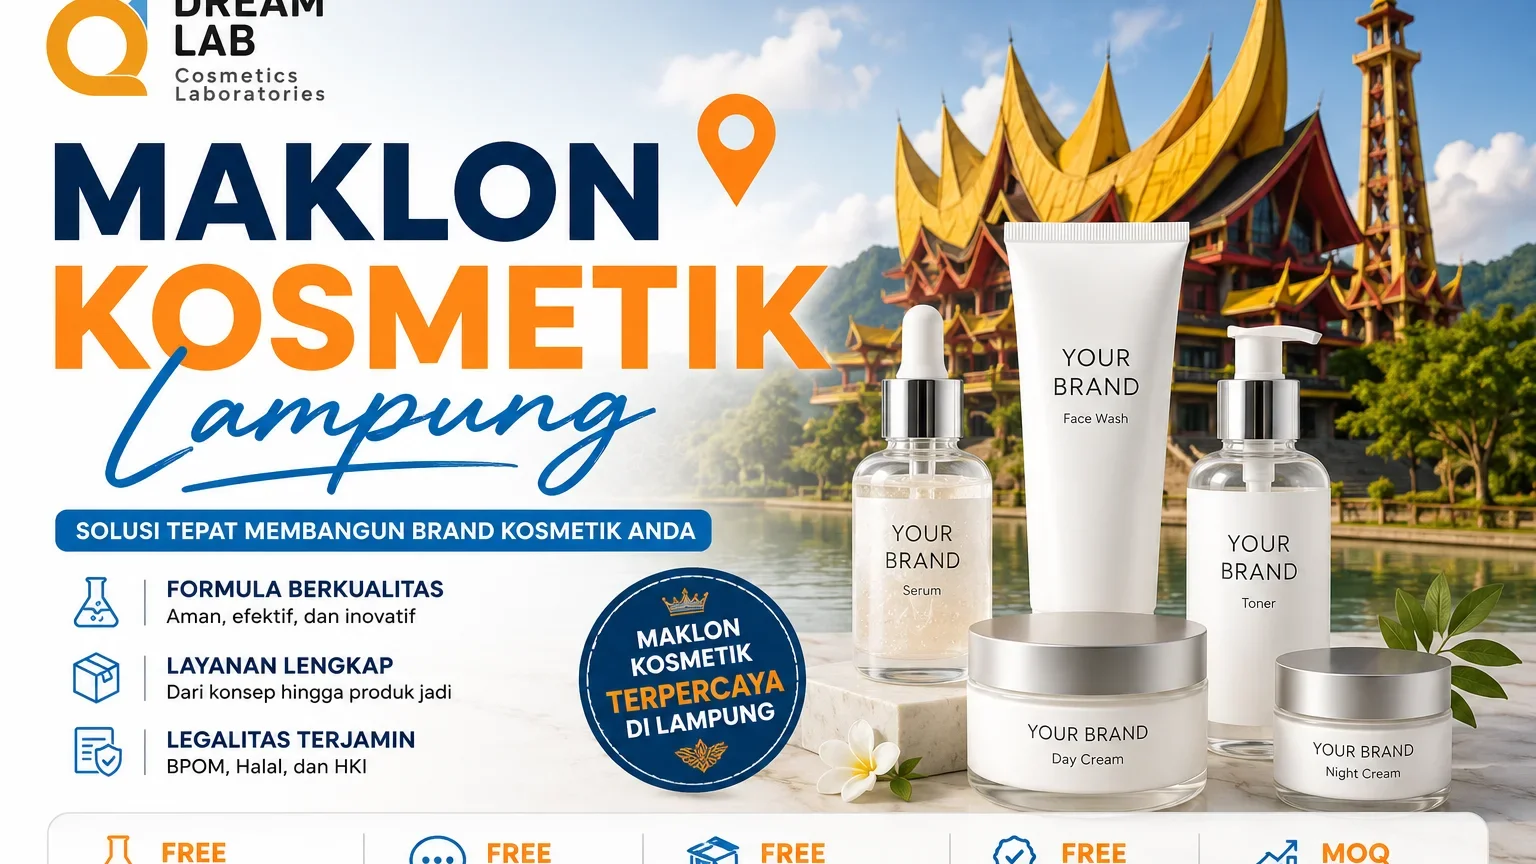
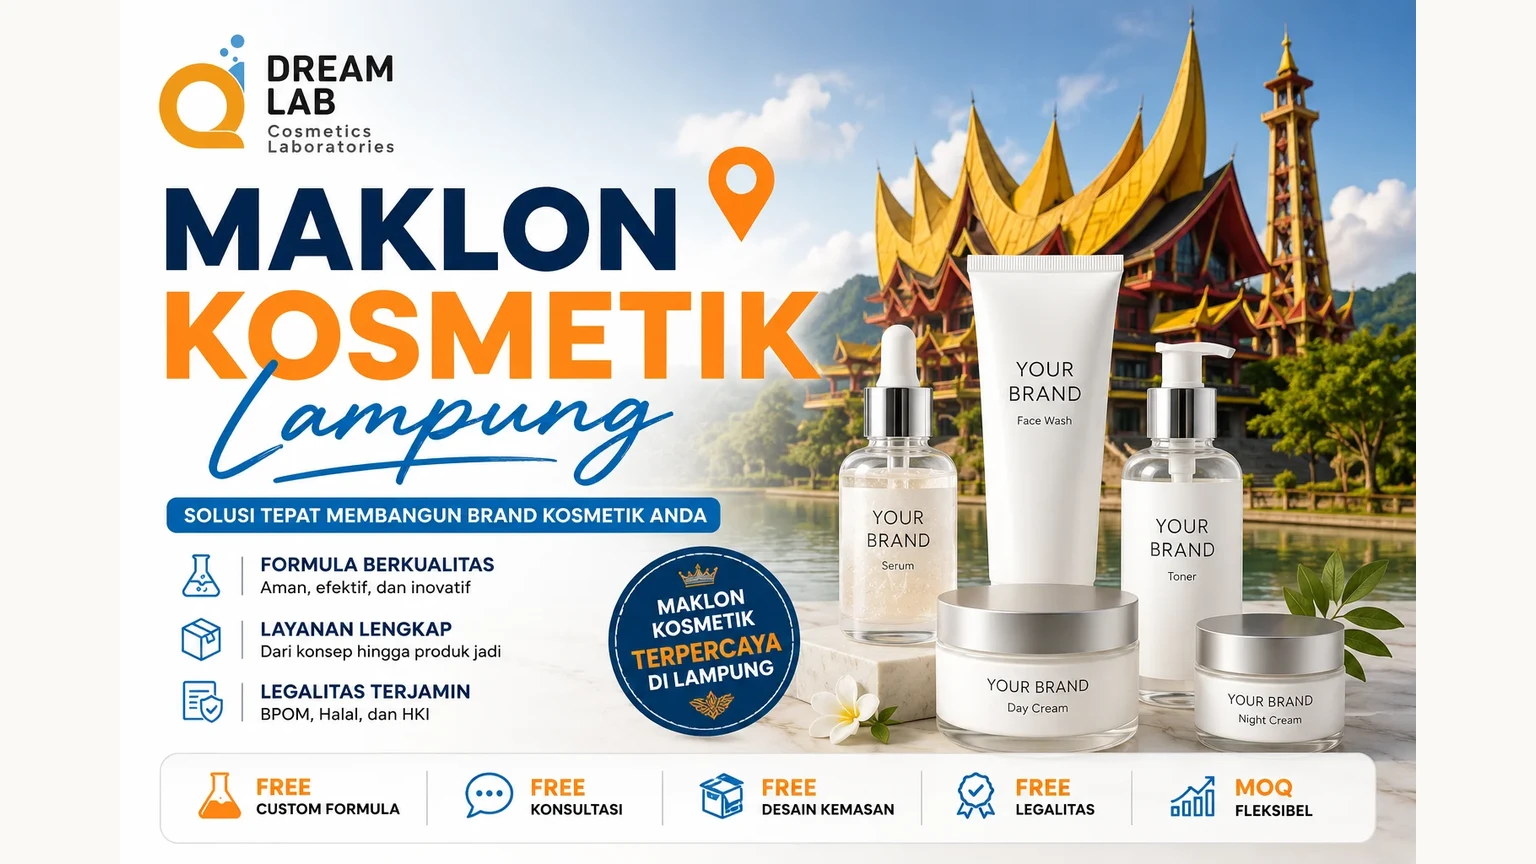
fix: hero image padded to 16:9, title tanpa tanda tanya

diff --git a/src/data/articles.ts b/src/data/articles.ts
@@ -2734,7 +2734,7 @@ export const articles: Article[] = [
 
   {
     "slug": "/maklon-kosmetik-bpom-bandar-lampung",
-    "title": "Pabrik Kosmetik Bandar Lampung? Sekarang Sudah Bisa - Bersama Dreamlab",
+    "title": "Pabrik Kosmetik Bandar Lampung — Mulai Brand Skincare Sendiri Tanpa Ribet",
     "publishDate": "2026-06-26T15:00:00+00:00",
     "author": "Dreamlab Maklon Kosmetik",
     "categories": ["Maklon Skincare"],
@@ -2742,7 +2742,7 @@ export const articles: Article[] = [
     "excerpt": "Mau punya brand skincare dari Bandar Lampung? Dreamlab urus semua — formula eksklusif, BPOM, kemasan, sampai siap jual. Konsultasi gratis, tanpa ribet!",
     "content": "\n<p class=\"wp-block-paragraph\">Kamu pernah pakai skincare lokal dan mikir, \"Kok produk ini biasa banget, padahal aku punya ide yang jauh lebih bagus?\" Atau mungkin kamu sudah lama kepikiran punya brand sendiri — tapi selalu nunda karena tidak tahu harus mulai dari mana. Dari konsep? Formula? Kemasan? Izin BPOM?</p>\n\n\n\n<p class=\"wp-block-paragraph\">Dreamlab maklon kosmetik menemani kamu dari nol sampai selesai — dari konsep produk, pembuatan formula eksklusif, desain kemasan, pengurusan legalitas BPOM dan Halal, sampai strategi digital marketing-nya. Kamu tidak perlu urus apa-apa sendiri. Semua dikerjakan bersama, dalam satu atap.</p>\n\n\n\n<p class=\"wp-block-paragraph\">Dan semua ini bisa kamu mulai dari <strong>Bandar Lampung</strong>, sekarang. Tanpa harus ke Jakarta. Tanpa modal miliaran. Itu yang sudah dibuktikan oleh 1000+ brand bersama Dreamlab sejak 1989.</p>\n\n\n\n<p class=\"wp-block-paragraph\">Sekarang, giliran brandmu.</p>\n\n\n\n<div style=\"background:linear-gradient(135deg,#1a1a2e 0%,#16213e 50%,#0f3460 100%);border-radius:24px;padding:36px 28px;margin:40px 0;text-align:center;box-shadow:0 12px 40px rgba(0,0,0,0.18);position:relative;overflow:hidden\">\n<div style=\"position:absolute;top:-60px;right:-60px;width:180px;height:180px;background:radial-gradient(circle,rgba(217,138,0,0.12) 0%,transparent 70%);border-radius:50%\"></div>\n<div style=\"position:absolute;bottom:-40px;left:-40px;width:140px;height:140px;background:radial-gradient(circle,rgba(217,138,0,0.08) 0%,transparent 70%);border-radius:50%\"></div>\n<p style=\"color:#ffffff;font-size:22px;font-weight:800;margin:0 0 10px;line-height:1.3;position:relative\">Mulai Brand Kosmetikmu dari Bandar Lampung</p>\n<p style=\"color:#a0aec0;font-size:14px;margin:0 0 8px;line-height:1.6;position:relative\">Dreamlab dampingi kamu dari konsep, formula, BPOM, hingga produk siap jual.</p>\n<p style=\"color:#a0aec0;font-size:13px;margin:0 0 20px;line-height:1.5;position:relative\">Pelajari dulu <a href=\"https://dreamlab.id/perbedaan-oem-vs-odm/\" style=\"color:#D98A00;text-decoration:underline;font-weight:700\">perbedaan OEM, ODM, dan Maklon</a> sebelum memulai.</p>\n<a href=\"https://dreamlab.id/thankyou/google/\" style=\"background:linear-gradient(135deg,#D98A00 0%,#e6a020 50%,#f0b830 100%);color:#ffffff;padding:16px 44px;border-radius:50px;font-weight:800;text-decoration:none;display:inline-block;font-size:15px;box-shadow:0 4px 20px rgba(217,138,0,0.35);letter-spacing:0.5px;margin-top:4px;position:relative\">Konsultasi Gratis Sekarang →</a>\n</div>\n\n\n\n<div class=\"article-daftar-isi\" style=\"background:#f8f6f1;border:1px solid #e8e3d8;border-radius:16px;padding:28px 32px;margin:40px 0\">\n<p style=\"font-size:18px;font-weight:800;margin:0 0 16px;color:#1a1a2e\">Daftar Isi</p>\n<ul style=\"list-style:none;padding:0;margin:0;display:grid;grid-template-columns:1fr 1fr;gap:8px 24px\">\n<li style=\"margin:0\"><a href=\"#mau-buat-brand-skincare-ini-kabar-baik-untuk-kamu-yang-ada-di-lampung\" style=\"color:#D98A00;text-decoration:none;font-size:14px;font-weight:600\">Mau Buat Brand Skincare? Ini Kabar Baik untuk Kamu yang Ada di Lampung</a></li>\n<li style=\"margin:0\"><a href=\"#produk-apa-saja-yang-bisa-kamu-buat-di-dreamlab\" style=\"color:#D98A00;text-decoration:none;font-size:14px;font-weight:600\">Produk Apa Saja yang Bisa Kamu Buat di Dreamlab?</a></li>\n<li style=\"margin:0\"><a href=\"#5-tren-produk-skincare-yang-paling-laris-di-indonesia-2026\" style=\"color:#D98A00;text-decoration:none;font-size:14px;font-weight:600\">5 Tren Produk Skincare yang Paling Laris di Indonesia 2026</a></li>\n<li style=\"margin:0\"><a href=\"#berapa-biaya-maklon-di-dreamlab-ini-yang-menentukannya\" style=\"color:#D98A00;text-decoration:none;font-size:14px;font-weight:600\">Berapa Biaya Maklon di Dreamlab?</a></li>\n<li style=\"margin:0\"><a href=\"#alur-maklon-di-dreamlab-dari-ide-di-kepala-sampai-produk-di-tangan\" style=\"color:#D98A00;text-decoration:none;font-size:14px;font-weight:600\">Alur Maklon di Dreamlab</a></li>\n<li style=\"margin:0\"><a href=\"#yuk-wujudkan-brand-kosmetikmu-bersama-dreamlab\" style=\"color:#D98A00;text-decoration:none;font-size:14px;font-weight:600\">Wujudkan Brand Kosmetikmu Bersama Dreamlab!</a></li>\n<li style=\"margin:0\"><a href=\"#pertanyaan-yang-sering-diajukan\" style=\"color:#D98A00;text-decoration:none;font-size:14px;font-weight:600\">Pertanyaan yang Sering Diajukan (FAQ)</a></li>\n</ul>\n</div>\n\n\n\n<h2>Mau Buat Brand Skincare? Ini Kabar Baik untuk Kamu yang Ada di Lampung</h2>\n\n\n\n<p class=\"wp-block-paragraph\">Banyak orang di Bandar Lampung yang sebenarnya sudah siap — tapi satu pertanyaan selalu bikin ragu:</p>\n\n\n\n<p class=\"wp-block-paragraph\"><em>\"Bisa nggak sih, mulai bisnis kosmetik dari sini? Tanpa koneksi di Jakarta? Tanpa modal miliaran?\"</em></p>\n\n\n\n<p class=\"wp-block-paragraph\">Bisa. Dan lebih mudah dari yang kamu bayangkan.</p>\n\n\n\n<p class=\"wp-block-paragraph\">Sistemnya namanya <strong>maklon kosmetik</strong>. Artinya, kamu tidak perlu punya pabrik, tidak perlu rekrut tim R&D, tidak perlu pusing soal mesin produksi. Kamu cukup punya ide produk dan target pasar — Dreamlab yang urus sisanya.</p>\n\n\n\n<p class=\"wp-block-paragraph\">Sebelum memulai, pahami dulu <a href=\"https://dreamlab.id/perbedaan-oem-vs-odm/\">perbedaan OEM, ODM, dan Maklon</a> agar kamu bisa memilih model produksi yang paling sesuai dengan brand yang ingin kamu bangun dari Bandar Lampung.</p>\n\n\n\n<p class=\"wp-block-paragraph\">Bukan sekadar urus produksi saja. Ini jalurnya:</p>\n\n\n\n<p class=\"wp-block-paragraph\" style=\"text-align:center;font-weight:bold\">Konsep → Formula Eksklusif → Desain Kemasan → BPOM & Halal → Produksi → Digital Marketing</p>\n\n\n\n<p class=\"wp-block-paragraph\">Dreamlab maklon kosmetik mengawal kamu di setiap langkah. Dari brainstorming produk pertama, sampai strategi konten dan iklan supaya produkmu ditemukan dan dibeli konsumen di Lampung — bahkan ke seluruh Indonesia. Jarak bukan masalah. Semangat yang jadi modalnya.</p>\n\n\n\n<img loading=\"lazy\" src=\"/assets/images/blog/maklon-kosmetik-bpom-bandar-lampung-tengah.webp\" alt=\"Jasa Maklon Skincare Bandar Lampung\" title=\"Jasa Maklon Skincare Bandar Lampung - Dreamlab\" style=\"width:100%;border-radius:16px;margin:20px 0\" />\n\n\n\n<h2>Produk Apa Saja yang Bisa Kamu Buat di Dreamlab?</h2>\n\n\n\n<p class=\"wp-block-paragraph\">Ini bagian yang sering bikin calon klien terkejut: Dreamlab maklon kosmetik tidak hanya buat serum atau moisturizer. Ada 7 kategori produk yang bisa dikembangkan — semuanya dengan formula eksklusif milikmu, tidak dipakai brand lain manapun.</p>\n\n\n\n<h3>Skincare Wajah</h3>\n\n\n\n<p class=\"wp-block-paragraph\">Skincare wajah adalah kategori yang tidak pernah sepi. Orang beli skincare hampir setiap bulan — artinya repeat purchase-nya sangat tinggi untuk brandmu.</p>\n\n\n\n<h4>Serum</h4>\n\n\n\n<p class=\"wp-block-paragraph\">Serum adalah hero product yang paling banyak dicari. Di Dreamlab, kamu bisa request serum dengan bahan aktif spesifik: Vitamin C untuk mencerahkan, Niacinamide untuk mengecilkan pori, Bakuchiol sebagai alternatif retinol yang lebih aman, atau kombinasi multi-aktif yang lebih kompleks. Formula itu jadi milikmu seorang.</p>\n\n\n\n<h4>Sunscreen</h4>\n\n\n\n<p class=\"wp-block-paragraph\">Sunscreen adalah produk yang wajib ada di setiap brand skincare serius. Dreamlab bisa formulasikan SPF 50+ dengan berbagai finish — matte untuk yang kulit berminyak, dewy untuk yang suka tampilan glowing, atau ultra-light tanpa white cast untuk kulit sawo matang Indonesia. Di iklim Lampung yang panas, sunscreen yang nyaman dipakai harian adalah produk yang akan selalu dicari.</p>\n\n\n\n<h4>Toner, Moisturizer, Face Wash, Masker</h4>\n\n\n\n<p class=\"wp-block-paragraph\">Semua bisa dikembangkan sesuai brief brandmu. Mau tone yang minimalis dan clean? Mau vibes Korea dengan centella dan snail? Mau positioning derma-grade yang serius? Semua bisa dimulai dari konsultasi pertama.</p>\n\n\n\n<h3>Body Care</h3>\n\n\n\n<p class=\"wp-block-paragraph\">Kalau kamu di Bandar Lampung, ini peluang yang sangat sayang dilewatkan. Konsumen di Lampung dan Sumatera secara umum sangat loyal pada produk body care — terutama yang punya wangi kuat dan tahan lama, plus efek mencerahkan kulit.</p>\n\n\n\n<h4>Body Lotion</h4>\n\n\n\n<p class=\"wp-block-paragraph\">Bisa diformulasikan untuk mencerahkan, melembapkan, mengencangkan — atau kombinasi ketiganya sekaligus. Aromanya bisa kamu pilih sendiri dari ratusan pilihan fragrance, dan aroma itu eksklusif hanya untuk brandmu.</p>\n\n\n\n<h4>Body Scrub</h4>\n\n\n\n<p class=\"wp-block-paragraph\">Dengan base kopi, gula, atau garam laut sangat viral di konten media sosial karena visual teksturnya menarik. Mudah dibuat konten, mudah dijual.</p>\n\n\n\n<h4>Body Wash</h4>\n\n\n\n<p class=\"wp-block-paragraph\">Bisa dikembangkan dengan bahan aktif glutathione atau kojic acid untuk klaim mencerahkan — sangat relevan untuk target pasar perempuan Indonesia.</p>\n\n\n\n<h3>Hair Care</h3>\n\n\n\n<p class=\"wp-block-paragraph\">Ini kategori yang sering diabaikan brand baru — dan justru itu keuntungannya. Kompetisi di hair care jauh lebih rendah dari skincare wajah, tapi pasarnya tidak kalah besar.</p>\n\n\n\n<h4>Shampo Anti-Rontok</h4>\n\n\n\n<p class=\"wp-block-paragraph\">Dengan bahan aktif biotin, saw palmetto, atau peptide rambut — masalah kerontokan rambut relevan untuk hampir semua orang dewasa Indonesia.</p>\n\n\n\n<h4>Hair Mask dan Kondisioner</h4>\n\n\n\n<p class=\"wp-block-paragraph\">Untuk rambut yang rusak karena sering di-bleach, di-rebonding, atau kena panas terik Lampung — pasarnya jelas dan manfaatnya langsung terasa.</p>\n\n\n\n<h4>Hair Serum</h4>\n\n\n\n<p class=\"wp-block-paragraph\">Anti-frizz dan hair tonic pertumbuhan rambut melengkapi lini yang bisa kamu bangun secara bertahap.</p>\n\n\n\n<h3>Parfum & Fragrance</h3>\n\n\n\n<p class=\"wp-block-paragraph\">Satu hal yang banyak orang tidak tahu: parfum adalah kategori kosmetik dengan margin keuntungan tertinggi. Biaya bahan bakunya relatif lebih rendah dibanding skincare aktif, tapi nilai jualnya bisa sangat premium.</p>\n\n\n\n<p class=\"wp-block-paragraph\">Di Dreamlab maklon kosmetik, kamu bisa mengembangkan <a href=\"https://dreamlab.id/cara-buat-parfum-sendiri-dengan-maklon/\">Eau de Parfum (EDP)</a>, roll-on parfum yang sedang tren besar di Gen Z, hingga body mist yang cocok untuk iklim tropis.</p>\n\n\n\n<h3>Baby Care</h3>\n\n\n\n<p class=\"wp-block-paragraph\">Orang tua yang sudah percaya satu brand baby, hampir tidak pernah ganti. Baby lotion, baby wash, baby oil — semuanya diformulasikan ultra-mild, pH-balanced, bebas bahan berbahaya, dan diuji keamanannya untuk kulit bayi yang sangat sensitif.</p>\n\n\n\n<h3>Kosmetik Dekoratif</h3>\n\n\n\n<p class=\"wp-block-paragraph\">Satu video TikTok dengan shade lip cream yang tepat bisa membuat produkmu habis terjual dalam hitungan jam. Lip cream matte, lip gloss, lip oil adalah titik masuk paling populer untuk brand makeup baru.</p>\n\n\n\n<h3>Foot Care — Celah Pasar yang Masih Kosong</h3>\n\n\n\n<p class=\"wp-block-paragraph\">Ini kategori yang hampir tidak ada kompetitornya di segmen brand lokal. Foot cream untuk tumit pecah-pecah, foot scrub, dan foot mask dalam format booties — peluangnya terbuka lebar untuk siapa yang mau masuk duluan.</p>\n\n\n\n<h2>5 Tren Produk Skincare yang Paling Laris di Indonesia 2026</h2>\n\n\n\n<h3>Sunscreen SPF 50+ Ringan Tanpa White Cast</h3>\n\n\n\n<p class=\"wp-block-paragraph\">Konsumen Indonesia sekarang tidak mau kompromi — mau proteksi maksimal tapi juga nyaman dipakai harian di iklim panas. Brand yang bisa menawarkan sunscreen ringan, tidak lengket, dan tidak meninggalkan noda putih akan selalu punya pembeli setia. Menurut <a href=\"https://www.pom.go.id\" target=\"_blank\" rel=\"nofollow noopener\">Badan POM RI</a>, produk SPF wajib melalui uji stabilitas dan efikasi sebelum mendapatkan izin edar — pastikan pabrik maklonmu memiliki fasilitas uji yang memadai.</p>\n\n\n\n<h3>Serum Brightening Niacinamide + Tranexamic Acid</h3>\n\n\n\n<p class=\"wp-block-paragraph\">Kombinasi ini naik daun karena lebih efektif dari niacinamide tunggal tapi lebih aman dari bahan pemutih keras. Awareness konsumennya sudah ada, tinggal kamu masuk dengan produk yang tepat.</p>\n\n\n\n<h3>Toner Hydrating Centella Asiatica</h3>\n\n\n\n<p class=\"wp-block-paragraph\">Centella adalah bahan yang sudah teruji waktu — masuk tren, keluar tren, tapi tidak pernah benar-benar pergi karena manfaatnya nyata.</p>\n\n\n\n<h3>Body Lotion Brightening dengan Wangi Tahan Lama</h3>\n\n\n\n<p class=\"wp-block-paragraph\">Ini yang paling relevan untuk pasar Lampung dan Sumatera. Konsumen di sini sangat menghargai body lotion yang membuat kulit lebih cerah dan wanginya awet sepanjang hari.</p>\n\n\n\n<h3>Lip Cream Matte Tahan Lama Berbagai Shade</h3>\n\n\n\n<p class=\"wp-block-paragraph\">Makeup produk paling accessible untuk brand baru. Viral potential di TikTok sangat tinggi, MOQ lebih ramah, dan satu koleksi warna yang tepat bisa langsung membuat brandmu dikenal.</p>\n\n\n\n<h2>Berapa Biaya Maklon di Dreamlab? Ini yang Menentukannya</h2>\n\n\n\n<p class=\"wp-block-paragraph\">Dreamlab maklon kosmetik tidak bisa langsung sebut angka tanpa tahu dulu kebutuhan spesifikmu — karena biaya maklon itu seperti biaya bangun rumah. Dua orang bisa dapat harga yang sangat berbeda, tergantung pilihan material, ukuran, dan fitur yang diinginkan.</p>\n\n\n\n<p class=\"wp-block-paragraph\"><strong>Kompleksitas formula:</strong> Serum dengan 8 bahan aktif berbeda tentu berbeda biayanya dengan toner hydrating sederhana. Tim Dreamlab akan bantu kamu menemukan keseimbangan antara formula yang efektif dan yang masuk akal secara bisnis.</p>\n\n\n\n<p class=\"wp-block-paragraph\"><strong>Pilihan bahan aktif:</strong> Niacinamide dan hyaluronic acid relatif terjangkau. Sementara peptide kompleks atau bakuchiol premium punya harga lebih tinggi per gramnya.</p>\n\n\n\n<p class=\"wp-block-paragraph\"><strong>MOQ (Minimum Order Quantity):</strong> Semakin banyak yang diproduksi dalam satu batch, semakin rendah biaya per unit-nya. Brand baru yang masih testing market wajar mulai dari volume lebih kecil.</p>\n\n\n\n<p class=\"wp-block-paragraph\"><strong>Material kemasan:</strong> Botol kaca premium, airless pump, tube plastik — semuanya punya harga sangat berbeda. Kabar baiknya: desain kemasan eksklusif dikerjakan gratis oleh tim desainer Dreamlab.</p>\n\n\n\n<p class=\"wp-block-paragraph\"><strong>Legalitas:</strong> BPOM, Halal MUI, HKI merek — semua bisa dikoordinasikan dalam satu atap. Kamu tidak perlu keluar energi untuk urus birokrasi.</p>\n\n\n\n<div style=\"background:linear-gradient(135deg,#1a1a2e 0%,#16213e 50%,#0f3460 100%);border-radius:24px;padding:36px 28px;margin:40px 0;text-align:center;box-shadow:0 12px 40px rgba(0,0,0,0.18);position:relative;overflow:hidden\">\n<div style=\"position:absolute;top:-60px;right:-60px;width:180px;height:180px;background:radial-gradient(circle,rgba(217,138,0,0.12) 0%,transparent 70%);border-radius:50%\"></div>\n<div style=\"position:absolute;bottom:-40px;left:-40px;width:140px;height:140px;background:radial-gradient(circle,rgba(217,138,0,0.08) 0%,transparent 70%);border-radius:50%\"></div>\n<p style=\"color:#ffffff;font-size:22px;font-weight:800;margin:0 0 10px;line-height:1.3;position:relative\">Mulai Brand Kosmetikmu dari Bandar Lampung</p>\n<p style=\"color:#a0aec0;font-size:14px;margin:0 0 8px;line-height:1.6;position:relative\">Dreamlab dampingi kamu dari konsep, formula, BPOM, hingga produk siap jual.</p>\n<p style=\"color:#a0aec0;font-size:13px;margin:0 0 20px;line-height:1.5;position:relative\">Simak juga <a href=\"https://dreamlab.id/memilih-pabrik-maklon-kosmetik-sertifikasi-cpkb/\" style=\"color:#D98A00;text-decoration:underline;font-weight:700\">panduan memilih pabrik maklon CPKB Grade A</a> untuk brandmu.</p>\n<a href=\"https://dreamlab.id/thankyou/google/\" style=\"background:linear-gradient(135deg,#D98A00 0%,#e6a020 50%,#f0b830 100%);color:#ffffff;padding:16px 44px;border-radius:50px;font-weight:800;text-decoration:none;display:inline-block;font-size:15px;box-shadow:0 4px 20px rgba(217,138,0,0.35);letter-spacing:0.5px;margin-top:4px;position:relative\">Konsultasi Gratis Sekarang →</a>\n</div>\n\n\n\n<h2>Alur Maklon di Dreamlab — Dari Ide di Kepala Sampai Produk di Tangan</h2>\n\n\n\n<p class=\"wp-block-paragraph\">Ini yang bikin banyak calon klien dari Bandar Lampung lega: prosesnya jauh lebih sederhana dari yang dibayangkan. Tidak ada yang tiba-tiba. Setiap tahap jelas, dan kamu selalu tahu sedang ada di mana.</p>\n\n\n\n<div style=\"display:grid;grid-template-columns:1fr 1fr;gap:16px;margin:30px 0\">\n<div style=\"background:#ffffff;border:1px solid #e8e3d8;border-radius:16px;padding:24px;box-shadow:0 2px 8px rgba(0,0,0,0.04);position:relative\">\n<div style=\"width:36px;height:36px;background:linear-gradient(135deg,#D98A00,#e6a020);border-radius:10px;display:flex;align-items:center;justify-content:center;color:#fff;font-weight:800;font-size:16px;margin-bottom:12px\">1</div>\n<p style=\"font-weight:700;font-size:15px;margin:0 0 6px;color:#1a1a2e\">Konsultasi Gratis</p>\n<p style=\"font-size:13px;margin:0;color:#4a5568;line-height:1.5\">Ceritakan idemu via WhatsApp atau video call. Tim Dreamlab dengarkan dan kasih gambaran awal yang jelas.</p>\n</div>\n<div style=\"background:#ffffff;border:1px solid #e8e3d8;border-radius:16px;padding:24px;box-shadow:0 2px 8px rgba(0,0,0,0.04);position:relative\">\n<div style=\"width:36px;height:36px;background:linear-gradient(135deg,#D98A00,#e6a020);border-radius:10px;display:flex;align-items:center;justify-content:center;color:#fff;font-weight:800;font-size:16px;margin-bottom:12px\">2</div>\n<p style=\"font-weight:700;font-size:15px;margin:0 0 6px;color:#1a1a2e\">R&amp;D &amp; Formulasi Eksklusif</p>\n<p style=\"font-size:13px;margin:0;color:#4a5568;line-height:1.5\">Formula 100% eksklusif milikmu — sistem 1 Klien 1 Formula. Tidak akan pernah diberikan ke brand lain.</p>\n</div>\n<div style=\"background:#ffffff;border:1px solid #e8e3d8;border-radius:16px;padding:24px;box-shadow:0 2px 8px rgba(0,0,0,0.04);position:relative\">\n<div style=\"width:36px;height:36px;background:linear-gradient(135deg,#D98A00,#e6a020);border-radius:10px;display:flex;align-items:center;justify-content:center;color:#fff;font-weight:800;font-size:16px;margin-bottom:12px\">3</div>\n<p style=\"font-weight:700;font-size:15px;margin:0 0 6px;color:#1a1a2e\">Sample Dikirim ke Lampung</p>\n<p style=\"font-size:13px;margin:0;color:#4a5568;line-height:1.5\">Produk sample dikirim ke alamatmu. Coba sendiri — jika perlu revisi, sampaikan saja hingga kamu puas.</p>\n</div>\n<div style=\"background:#ffffff;border:1px solid #e8e3d8;border-radius:16px;padding:24px;box-shadow:0 2px 8px rgba(0,0,0,0.04);position:relative\">\n<div style=\"width:36px;height:36px;background:linear-gradient(135deg,#D98A00,#e6a020);border-radius:10px;display:flex;align-items:center;justify-content:center;color:#fff;font-weight:800;font-size:16px;margin-bottom:12px\">4</div>\n<p style=\"font-weight:700;font-size:15px;margin:0 0 6px;color:#1a1a2e\">Desain Kemasan Eksklusif</p>\n<p style=\"font-size:13px;margin:0;color:#4a5568;line-height:1.5\">Tim desainer Dreamlab mengerjakan kemasan brandmu — gratis. Eksklusif. Profesional.</p>\n</div>\n<div style=\"background:#ffffff;border:1px solid #e8e3d8;border-radius:16px;padding:24px;box-shadow:0 2px 8px rgba(0,0,0,0.04);position:relative\">\n<div style=\"width:36px;height:36px;background:linear-gradient(135deg,#D98A00,#e6a020);border-radius:10px;display:flex;align-items:center;justify-content:center;color:#fff;font-weight:800;font-size:16px;margin-bottom:12px\">5</div>\n<p style=\"font-weight:700;font-size:15px;margin:0 0 6px;color:#1a1a2e\">Pengurusan BPOM &amp; Halal</p>\n<p style=\"font-size:13px;margin:0;color:#4a5568;line-height:1.5\">Tim Dreamlab urus notifikasi BPOM dan sertifikasi Halal MUI. Kamu tidak perlu bolak-balik ke instansi mana pun.</p>\n</div>\n<div style=\"background:#ffffff;border:1px solid #e8e3d8;border-radius:16px;padding:24px;box-shadow:0 2px 8px rgba(0,0,0,0.04);position:relative\">\n<div style=\"width:36px;height:36px;background:linear-gradient(135deg,#D98A00,#e6a020);border-radius:10px;display:flex;align-items:center;justify-content:center;color:#fff;font-weight:800;font-size:16px;margin-bottom:12px\">6</div>\n<p style=\"font-weight:700;font-size:15px;margin:0 0 6px;color:#1a1a2e\">Produksi CPKB Grade A</p>\n<p style=\"font-size:13px;margin:0;color:#4a5568;line-height:1.5\">Produksi massal di fasilitas Dreamlab bersertifikasi CPKB Grade A — standar tertinggi kosmetik Indonesia.</p>\n</div>\n<div style=\"background:#ffffff;border:1px solid #e8e3d8;border-radius:16px;padding:24px;box-shadow:0 2px 8px rgba(0,0,0,0.04);position:relative\">\n<div style=\"width:36px;height:36px;background:linear-gradient(135deg,#D98A00,#e6a020);border-radius:10px;display:flex;align-items:center;justify-content:center;color:#fff;font-weight:800;font-size:16px;margin-bottom:12px\">7</div>\n<p style=\"font-weight:700;font-size:15px;margin:0 0 6px;color:#1a1a2e\">Produk Tiba di Bandar Lampung</p>\n<p style=\"font-size:13px;margin:0;color:#4a5568;line-height:1.5\">Produk dikemas aman dan dikirim ke alamatmu — siap jual dengan BPOM, Halal, dan formula yang tidak bisa ditiru siapapun.</p>\n</div>\n</div>\n\n\n\n<p class=\"wp-block-paragraph\" style=\"font-weight:bold;text-align:center;font-size:1.1em\">Dari konsultasi pertama hingga produk ada di tanganmu: sekitar 2–3 bulan.</p>\n\n\n\n<img loading=\"lazy\" src=\"/assets/images/blog/maklon-kosmetik-bpom-bandar-lampung-bawah.webp\" alt=\"Dreamlab Beauty Brand Development Partner\" title=\"Dreamlab Beauty Brand Development Partner\" style=\"width:100%;border-radius:16px;margin:20px 0\" />\n\n\n\n<h2>Yuk, Wujudkan Brand Kosmetikmu Bersama Dreamlab!</h2>\n\n\n\n<p class=\"wp-block-paragraph\">Kamu sudah baca sampai sini. Itu artinya idemu bukan sekadar mimpi — kamu serius ingin mewujudkannya. Dan sekarang kamu tahu: dari Bandar Lampung pun bisa.</p>\n\n\n\n<p class=\"wp-block-paragraph\">Dreamlab maklon kosmetik sudah membantu 500+ brand lahir dan tumbuh dari seluruh Indonesia — banyak yang dimulai dari posisi persis seperti kamu sekarang. Punya ide, punya semangat, tapi belum tahu langkah pertamanya.</p>\n\n\n\n<p class=\"wp-block-paragraph\">Langkah pertamanya sederhana: konsultasi gratis.</p>\n\n\n\n<p class=\"wp-block-paragraph\">Dalam sesi itu, kamu akan dapat:<br />✅ Rekomendasi produk terbaik untuk target pasarmu di Lampung<br />✅ Gambaran proses dari awal sampai produk jadi<br />✅ Penjelasan BPOM dan Halal yang simple, tidak bikin pusing<br />✅ Estimasi waktu yang realistis dan jujur<br />✅ Zero pressure — tidak ada yang dipaksa memutuskan hari itu</p>\n\n\n\n<p class=\"wp-block-paragraph\">Dengan filosofi \"juaranya formula\" yang sudah terbukti selama lebih dari 35 tahun, Dreamlab maklon kosmetik hadir bukan untuk jual produk — tapi untuk jadi mitra jangka panjang brandmu.</p>\n\n\n\n<p class=\"wp-block-paragraph\">Brandmu bisa lahir dari Bandar Lampung. Dan Dreamlab siap menemaninya dari hari pertama.</p>\n\n\n\n<div style=\"background:linear-gradient(135deg,#1a1a2e 0%,#16213e 50%,#0f3460 100%);border-radius:24px;padding:36px 28px;margin:40px 0;text-align:center;box-shadow:0 12px 40px rgba(0,0,0,0.18);position:relative;overflow:hidden\">\n<div style=\"position:absolute;top:-60px;right:-60px;width:180px;height:180px;background:radial-gradient(circle,rgba(217,138,0,0.12) 0%,transparent 70%);border-radius:50%\"></div>\n<div style=\"position:absolute;bottom:-40px;left:-40px;width:140px;height:140px;background:radial-gradient(circle,rgba(217,138,0,0.08) 0%,transparent 70%);border-radius:50%\"></div>\n<p style=\"color:#ffffff;font-size:22px;font-weight:800;margin:0 0 10px;line-height:1.3;position:relative\">Mulai Brand Kosmetikmu dari Bandar Lampung</p>\n<p style=\"color:#a0aec0;font-size:14px;margin:0 0 20px;line-height:1.6;position:relative\">Dreamlab dampingi kamu dari konsep, formula, BPOM, hingga produk siap jual.</p>\n<a href=\"https://dreamlab.id/thankyou/google/\" style=\"background:linear-gradient(135deg,#D98A00 0%,#e6a020 50%,#f0b830 100%);color:#ffffff;padding:16px 44px;border-radius:50px;font-weight:800;text-decoration:none;display:inline-block;font-size:15px;box-shadow:0 4px 20px rgba(217,138,0,0.35);letter-spacing:0.5px;margin-top:4px;position:relative\">Konsultasi Gratis Sekarang →</a>\n</div>\n\n\n\n<h2>Pertanyaan yang Sering Diajukan</h2>\n\n\n\n<h3>Apakah bisa maklon di Dreamlab tanpa harus datang ke Surabaya?</h3>\n\n\n\n<p class=\"wp-block-paragraph\">Bisa, sepenuhnya. Semua proses — konsultasi, briefing formula, review sample, koordinasi BPOM — bisa dilakukan jarak jauh. Sample dikirim ke Bandar Lampung untuk kamu review, dan produk jadi juga dikirim langsung ke alamatmu. Banyak klien Dreamlab maklon kosmetik yang belum pernah sekalipun menginjakkan kaki di Surabaya.</p>\n\n\n\n<h3>Formula produk saya benar-benar tidak akan dipakai brand lain?</h3>\n\n\n\n<p class=\"wp-block-paragraph\">Benar. Dreamlab menerapkan sistem 1 Klien 1 Formula — formula yang dikembangkan khusus untukmu tidak akan pernah diberikan ke klien lain manapun. Ini terdokumentasi dalam perjanjian kerja sama yang jelas.</p>\n\n\n\n<h3>Produk apa yang paling cocok untuk pemula yang baru mulai di Lampung?</h3>\n\n\n\n<p class=\"wp-block-paragraph\">Tergantung target pasarmu — tapi untuk pasar Lampung dan Sumatera, body lotion brightening dengan wangi tahan lama dan sunscreen ringan adalah dua pilihan yang sangat kuat. Tim Dreamlab maklon kosmetik akan bantu rekomendasikan yang paling sesuai.</p>\n\n\n\n<h3>Berapa lama dari konsultasi pertama sampai produk jadi dan bisa dijual?</h3>\n\n\n\n<p class=\"wp-block-paragraph\">Rata-rata 2–3 bulan. Ini mencakup seluruh proses: pengembangan formula, pengiriman dan review sample, desain kemasan, pengurusan BPOM dan Halal, produksi massal, hingga pengiriman ke Bandar Lampung.</p>\n\n\n\n<h3>Apakah desain kemasan dan marketing support benar-benar gratis?</h3>\n\n\n\n<p class=\"wp-block-paragraph\">Ya, keduanya gratis sebagai bagian dari layanan Dreamlab maklon kosmetik. Desain kemasan eksklusif dikerjakan oleh tim desainer Dreamlab tanpa biaya tambahan. Marketing support awal juga disediakan untuk membantu brandmu mulai dikenal.</p>\n\n\n\n<h3>Apakah Dreamlab bisa bantu urus BPOM dan Halal untuk klien dari Lampung?</h3>\n\n\n\n<p class=\"wp-block-paragraph\">Ya. Tim Dreamlab membantu koordinasi pengurusan notifikasi BPOM dan sertifikasi Halal MUI untuk semua klien, terlepas dari lokasi. Kamu tidak perlu datang ke Jakarta — semua dikoordinasikan oleh tim berpengalaman Dreamlab maklon kosmetik.</p>\n\n\n\n<div style=\"background:linear-gradient(135deg,#1a1a2e 0%,#16213e 50%,#0f3460 100%);border-radius:24px;padding:36px 28px;margin:40px 0;text-align:center;box-shadow:0 12px 40px rgba(0,0,0,0.18);position:relative;overflow:hidden\">\n<div style=\"position:absolute;top:-60px;right:-60px;width:180px;height:180px;background:radial-gradient(circle,rgba(217,138,0,0.12) 0%,transparent 70%);border-radius:50%\"></div>\n<div style=\"position:absolute;bottom:-40px;left:-40px;width:140px;height:140px;background:radial-gradient(circle,rgba(217,138,0,0.08) 0%,transparent 70%);border-radius:50%\"></div>\n<p style=\"color:#ffffff;font-size:22px;font-weight:800;margin:0 0 10px;line-height:1.3;position:relative\">Mulai Brand Kosmetikmu dari Bandar Lampung</p>\n<p style=\"color:#a0aec0;font-size:14px;margin:0 0 20px;line-height:1.6;position:relative\">Dreamlab dampingi kamu dari konsep, formula, BPOM, hingga produk siap jual.</p>\n<a href=\"https://dreamlab.id/thankyou/google/\" style=\"background:linear-gradient(135deg,#D98A00 0%,#e6a020 50%,#f0b830 100%);color:#ffffff;padding:16px 44px;border-radius:50px;font-weight:800;text-decoration:none;display:inline-block;font-size:15px;box-shadow:0 4px 20px rgba(217,138,0,0.35);letter-spacing:0.5px;margin-top:4px;position:relative\">Konsultasi Gratis Sekarang →</a>\n</div>\n\n\n\n<p class=\"wp-block-paragraph\">📲 Atau langsung hubungi tim Dreamlab via WhatsApp — tidak ada komitmen, tidak ada biaya konsultasi.</p>\n",
     "seo": {
-      "title": "Maklon Kosmetik BPOM Bandar Lampung Mulai Sekarang di Dreamlab",
+      "title": "Maklon Kosmetik BPOM Bandar Lampung — Wujudkan Brand Skincare Impianmu",
       "description": "Mau punya brand skincare dari Bandar Lampung? Dreamlab urus semua — formula eksklusif, BPOM, kemasan, sampai siap jual. Konsultasi gratis, tanpa ribet!"
     }
   },